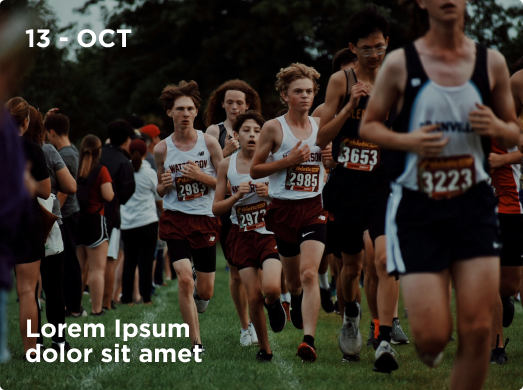
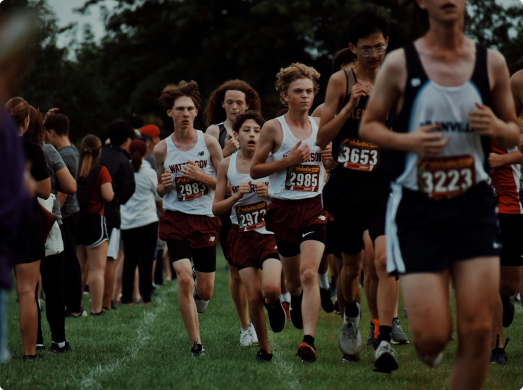
componente zona hinchas

Changed region(s): [[0.0306, 0.8, 0.3977, 0.9538], [0.0306, 0.0615, 0.2447, 0.1231]]

diff --git a/styles/css/home/vtex.rich-text.css b/styles/css/home/vtex.rich-text.css
@@ -399,3 +399,67 @@
     text-transform: uppercase;
     margin: 40px auto 30px;
 }
+
+
+/* zona hincha home */
+.container--zonaHinchaCarouselTextTitle{
+    color: #02012E;
+font-family: 'Raleway';
+font-size: 30px;
+font-style: normal;
+font-weight: 700;
+line-height: 35px; /* 100% */
+margin-top: 22px;
+position: relative;
+}
+.container--zonaHinchaCarouselTextTitle .paragraph, .container--zonaHinchaCarouselTextDescription .paragraph, .container--zonaHinchaCarouselTeam .paragraph, .container--zonaHinchaCarouselTeamTitle .paragraph{
+    margin: 0;
+}
+
+.container--zonaHinchaCarouselTextDescription {
+    color: #02012E;
+    font-family: 'gothambook';
+    font-size: 25px;
+    font-style: normal;
+    font-weight: 400;
+    line-height: 25px; /* 100% */
+    position: relative;
+}
+
+.container--zonaHinchaCarouselTeam{
+    color: #FFF;
+    text-align: center;
+    font-family: 'gothamlight';
+    font-size: 30px;
+    font-style: normal;
+    font-weight: 300;
+    line-height: normal;
+}
+
+.container--zonaHinchaCarouselTeamTitle{
+    color: #FFF;
+    text-align: center;
+    font-family: 'gothambold';
+    font-size: 30px;
+    font-style: normal;
+    font-weight: 700;
+    line-height: normal;
+}
+.link--zonaHinchaCarouselText{
+    border-radius: 15px;
+    border: 1px solid #FFF;
+    background: rgba(255, 255, 255, 0.20);
+    box-shadow: 2px 2px 4px 0px rgba(0, 0, 0, 0.25);
+    display: inline-flex;
+    padding: 15px 50px;
+    justify-content: center;
+    align-items: center;
+    gap: 10px;
+    color: #FFF;
+    font-family: 'gothamlight';
+    font-size: 18px;
+    font-style: normal;
+    font-weight: 400;
+    line-height: normal;
+    text-decoration: none;
+}

diff --git a/styles/css/home/vtex.flex-layout.css b/styles/css/home/vtex.flex-layout.css
@@ -147,3 +147,16 @@
 .flexCol--CarouselPlusImage:hover :global(.vtex-rich-text-0-x-container--CarouselPlusImageText){
     bottom: 95px;
 }
+
+/* destacados */
+.flexCol--DestacadosHome{
+    position: relative;
+}
+
+
+/* Componente xona hincha */
+.flexCol--zonaHincha{
+    position: relative;
+    margin: 60px 0;
+    padding: 60px;
+}

diff --git a/styles/css/home/vtex.store-components.css b/styles/css/home/vtex.store-components.css
@@ -156,3 +156,12 @@ margin: 0 auto;
     left: 0;
     z-index: 0;
 }
+
+
+/* zona hincha home */
+.imageElement--zonaHinchaImage{
+    position: absolute;
+    bottom: 60px;
+    left: 0;
+    z-index: 0;
+}
